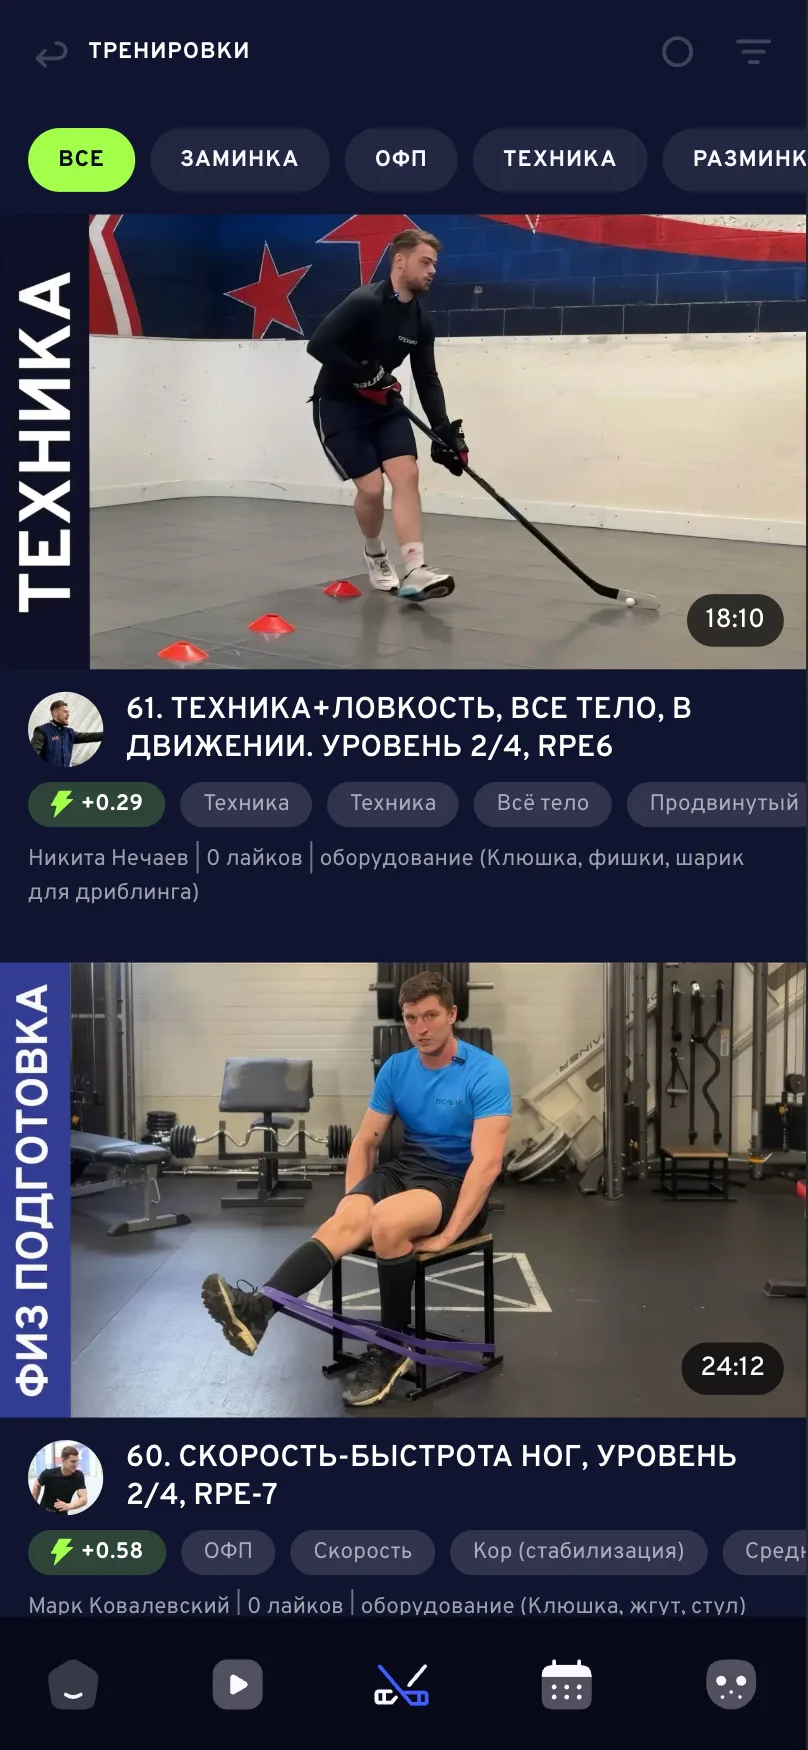
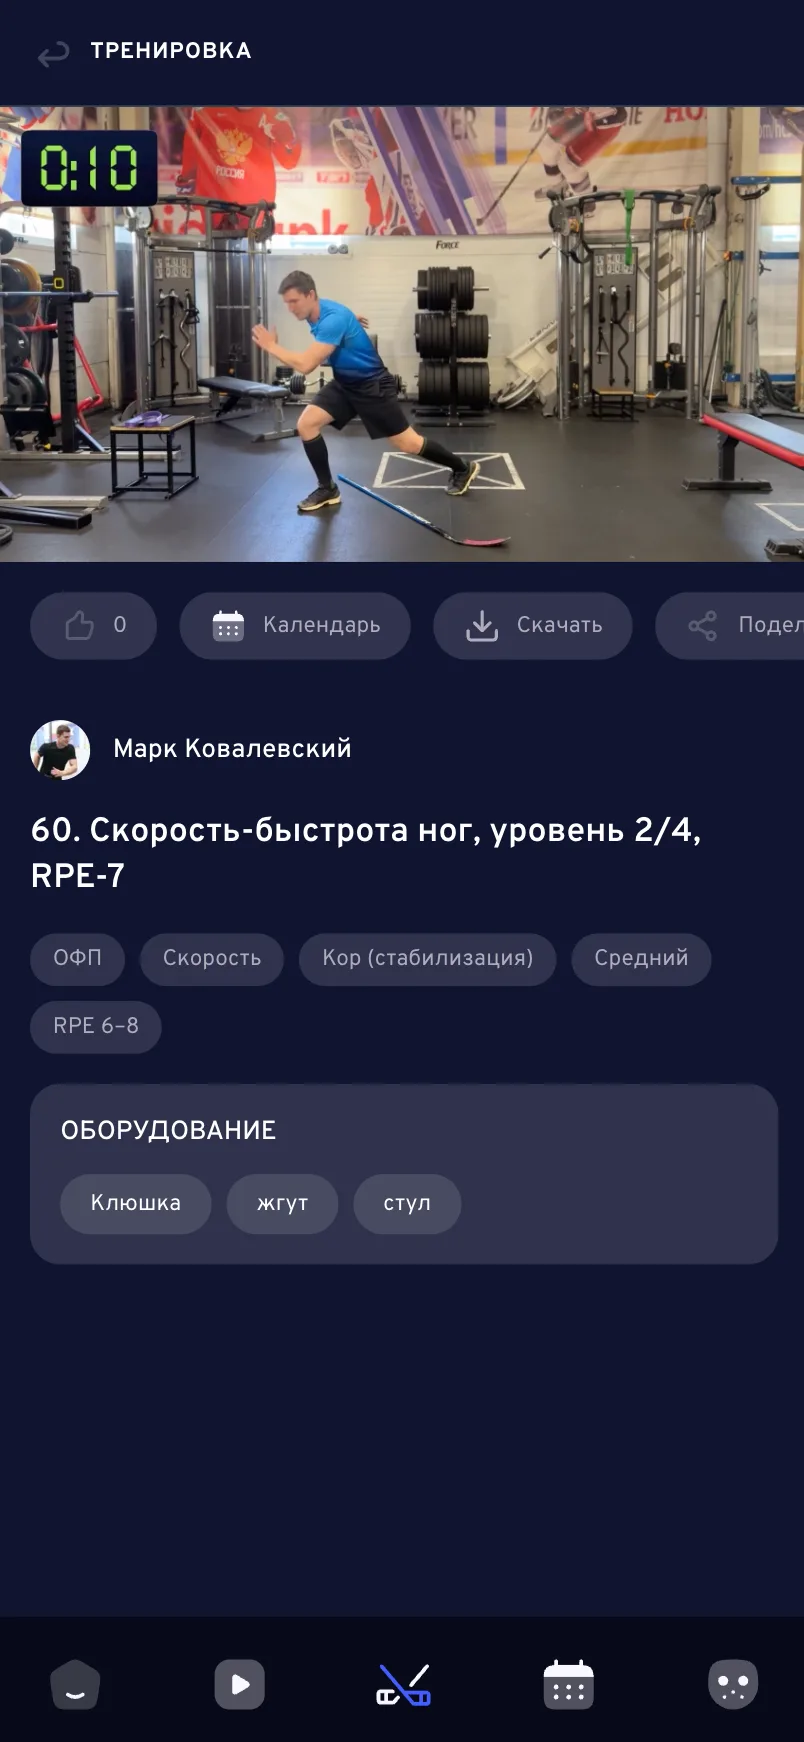
feat(landing): обновлённые скрины (профиль/тренировка/каталог) + правка текста
- profile/workout/catalog.webp заменены на новые скриншоты (конверт. из PNG q82).
- Блок «Каталог»: «физподготовка» → «физ подготовка», убрано «катание».

diff --git a/src/app/landing/page.tsx b/src/app/landing/page.tsx
@@ -154,7 +154,7 @@ const PAINS = [
 
 const FEATURES = [
   { screen: 'assessment', w: 280, eyebrow: 'ИИ-тренер', title: 'Тренировка под тебя за минуту', body: 'Выбирай цель и отмечай, как себя чувствуешь — ИИ соберёт персональную тренировку из модулей: разминка, физподготовка, техника, заминка. Под твои возраст, уровень, позицию и состояние.', bullets: ['Учитывает форму и усталость', 'Цель: бросок, скорость, борьба…', 'Никаких случайных видео'] },
-  { screen: 'catalog', w: 280, eyebrow: 'Каталог', title: '60+ видео-занятий под рукой', body: 'Техника, физподготовка, катание и теория — от реальных тренеров. Фильтруй по цели, типу нагрузки и тренеру, добавляй в избранное.', bullets: ['60+ занятий и каталог растёт', 'Поиск по цели и тренеру', 'Разминка · ФП · техника · теория'] },
+  { screen: 'catalog', w: 280, eyebrow: 'Каталог', title: '60+ видео-занятий под рукой', body: 'Техника, физ подготовка и теория — от реальных тренеров. Фильтруй по цели, типу нагрузки и тренеру, добавляй в избранное.', bullets: ['60+ занятий и каталог растёт', 'Поиск по цели и тренеру', 'Разминка · ФП · техника · теория'] },
   { screen: 'calendar', w: 280, eyebrow: 'Микроцикл', title: 'Целая неделя одним тапом', body: 'ИИ-тренер составляет недельный план по методике профи: от разминки к пиковой нагрузке и восстановлению перед играми. Всё в календаре.', bullets: ['5 тренировок на неделю', 'Нагрузка распределена грамотно', 'Адаптируется по твоему отклику'] },
   { screen: 'profile', w: 340, eyebrow: 'Прогресс', title: 'Видно, как ты растёшь', body: 'Сила, скорость, выносливость, техника и гибкость — пять характеристик, которые растут с каждой тренировкой. Общий потенциал — одно понятное число.', bullets: ['5 характеристик игрока', 'Кольцо общего потенциала', 'Прирост за каждую тренировку'] },
   { screen: 'workout', w: 280, eyebrow: 'Тренировки', title: 'Структурно, как у профи', body: 'Каждая тренировка — это модули с понятной длительностью и целью. Проходишь по очереди, отмечаешь выполнение, копишь прогресс.', bullets: ['Разминка → ФП/техника → заминка', 'Видео-упражнения от тренеров', 'Таймер и прогресс по модулям'] },
